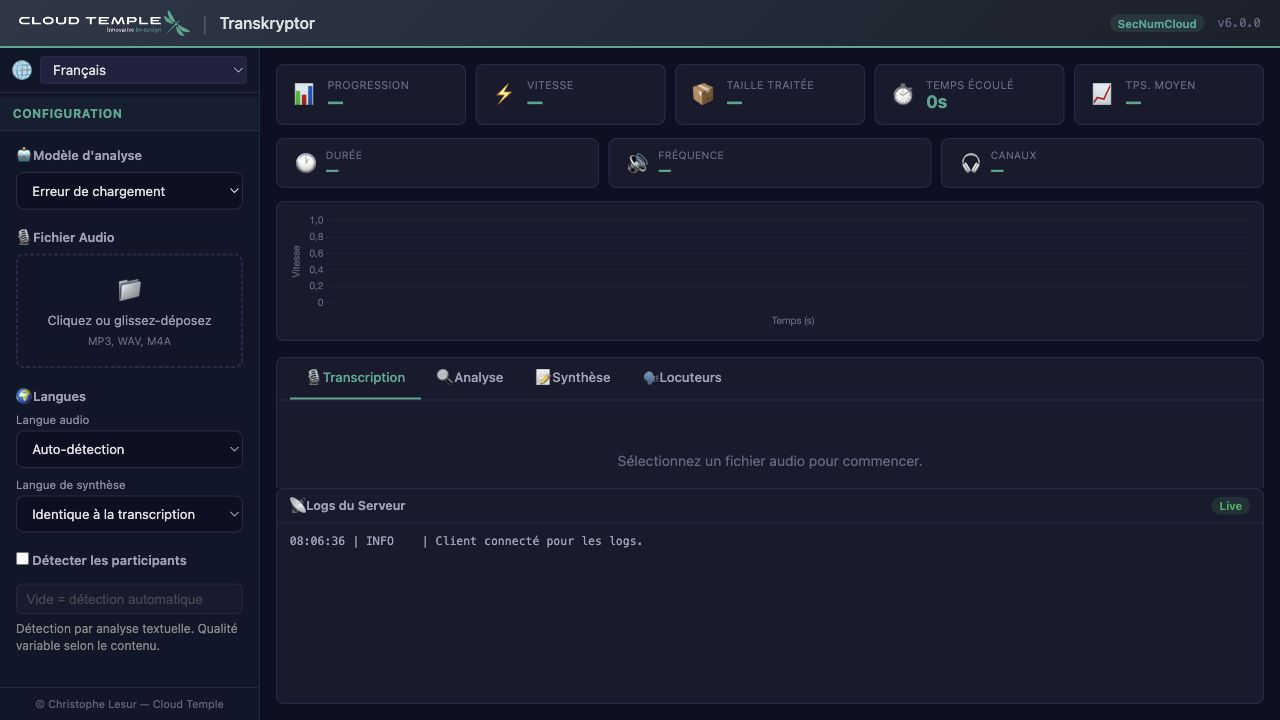
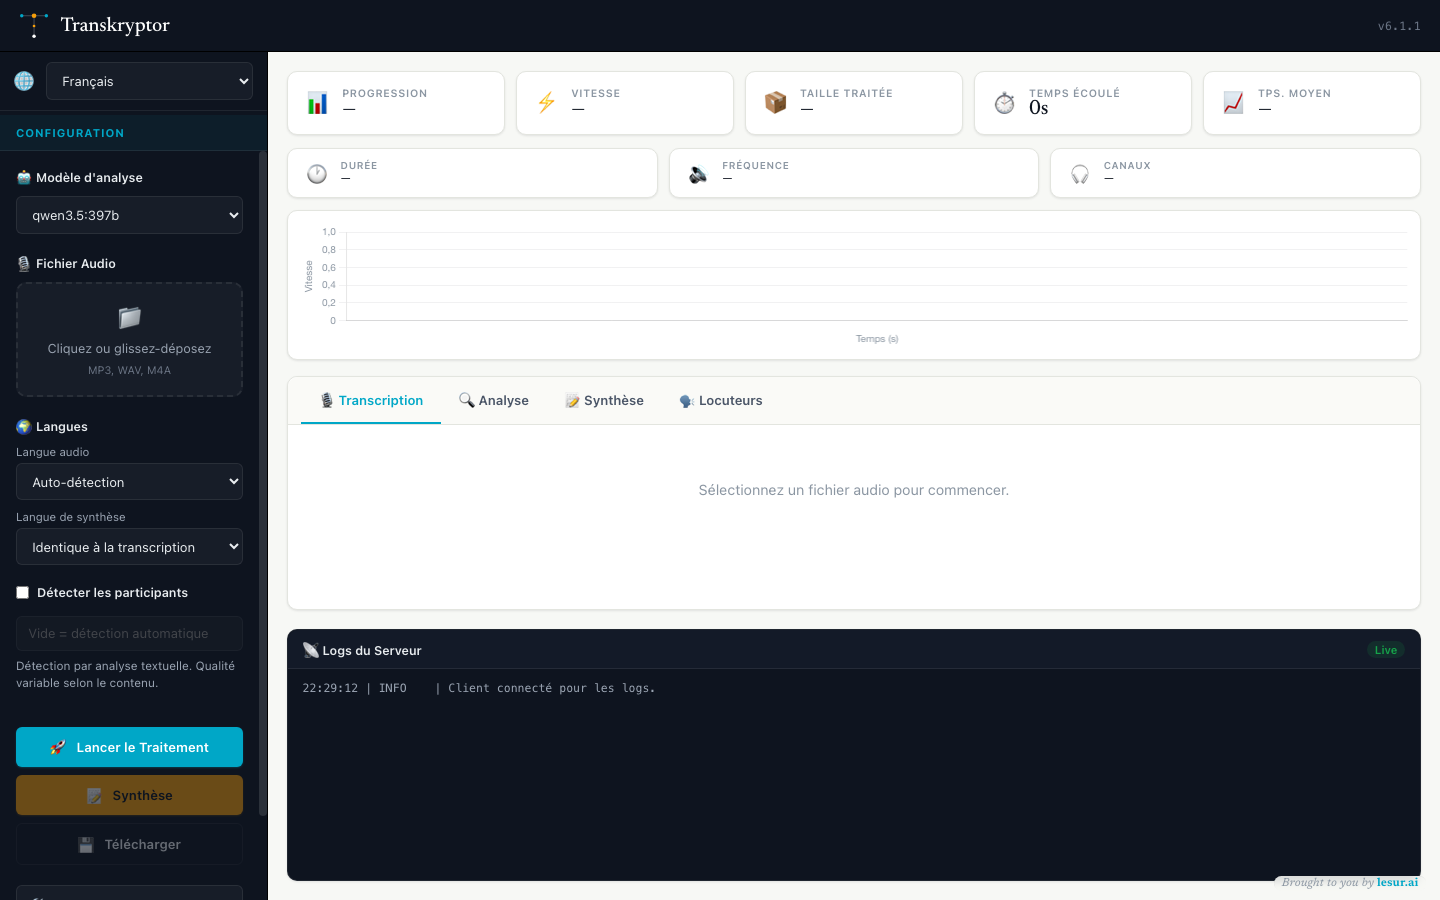
release: prepare v6.1.1 installer hotfix

diff --git a/src/client/index.html b/src/client/index.html
@@ -31,7 +31,7 @@
     </div>
     <div class="header-right">
         <span class="brand-cloudtemple badge badge-info">SecNumCloud</span>
-        <span id="header-version" class="header-version">v6.1.0</span>
+        <span id="header-version" class="header-version">v6.1.1</span>
     </div>
 </div>
 

diff --git a/src/client/js/apiService.js b/src/client/js/apiService.js
@@ -19,7 +19,7 @@ export async function getVersion() {
         return data.version;
     } catch (error) {
         console.error('Erreur lors de la récupération de la version.');
-        return '6.1.0';
+        return '6.1.1';
     }
 }
 

diff --git a/src/client/js/state.js b/src/client/js/state.js
@@ -15,7 +15,7 @@ const appState = {
     clientId: null,
 
     // Version de l'application (chargée depuis le serveur)
-    appVersion: '6.1.0',
+    appVersion: '6.1.1',
 
     // Résultats du traitement
     results: {

diff --git a/src/server/server.js b/src/server/server.js
@@ -11,7 +11,7 @@ const Logger = require('./logger');
 const app = express();
 
 // --- Lecture de la version depuis le fichier VERSION ---
-let APP_VERSION = '6.0.0';
+let APP_VERSION = '6.1.1';
 try {
     APP_VERSION = fs.readFileSync(path.join(__dirname, '../../VERSION'), 'utf-8').trim();
 } catch (e) {

diff --git a/docs/releases/v6.1.1.md b/docs/releases/v6.1.1.md
@@ -1,0 +1,55 @@
+# Release Notes — Transkryptor v6.1.1
+
+Date de préparation : 2026-06-25
+Branche cible : `main`
+
+## Résumé
+
+Transkryptor v6.1.1 est un hotfix documentation + installation pour la release
+visuelle v6.1.0. Le pipeline transcription / analyse / synthèse / diarisation
+reste inchangé.
+
+## Changements
+
+- Capture README remplacée par une vraie capture PNG de l'interface lesur.ai
+  v6.1 actuelle.
+- `README.md` et `README_FR.md` complétés avec l'installation en une ligne.
+- URL de clone corrigée vers `https://github.com/Lesur-ai/transkryptor.git`.
+- Ajout de `scripts/install.sh` pour macOS/Linux.
+- Version projet, fallbacks client et fallback serveur alignés sur `6.1.1`.
+
+## Script d'installation
+
+Commande cible :
+
+```bash
+curl -fsSL https://raw.githubusercontent.com/Lesur-ai/transkryptor/v6.1.1/scripts/install.sh | bash
+```
+
+Le script :
+
+- installe sur macOS dans `~/Applications/Transkryptor` ;
+- installe sur Linux dans `${XDG_DATA_HOME:-~/.local/share}/transkryptor` ;
+- copie `.env.example` vers `.env` si le fichier n'existe pas ;
+- lance `npm ci` ;
+- démarre le service sur `http://localhost:3000` ;
+- attend `/api/version` puis ouvre le navigateur par défaut.
+
+Variables utiles : `TRANSKRYPTOR_INSTALL_DIR`, `TRANSKRYPTOR_REF`,
+`TRANSKRYPTOR_PORT`, `TRANSKRYPTOR_OPEN_BROWSER=0`.
+
+## Windows
+
+La recommandation immédiate est d'utiliser WSL avec le même script bash.
+Pour un support natif Windows, la suite propre serait un script PowerShell
+installant dans `%LOCALAPPDATA%\Transkryptor`, lançant `npm ci`, démarrant le
+service Node et ouvrant `http://localhost:3000`.
+
+## Validation recommandée
+
+- `bash -n scripts/install.sh`
+- `node --check src/server/server.js`
+- `node --check src/client/js/apiService.js`
+- `node --check src/client/js/state.js`
+- JSON valide pour `package.json` et `package-lock.json`
+- Smoke test HTTP `GET /api/version` avec serveur local

diff --git a/README.md b/README.md
@@ -11,6 +11,7 @@ A modern web platform for audio transcription, analysis, and synthesis — built
 - [Highlights](#highlights)
 - [Architecture](#architecture)
 - [Quick start](#quick-start)
+- [One-line installer](#one-line-installer)
 - [Configuration](#configuration)
 - [Usage](#usage)
 - [Project layout](#project-layout)
@@ -24,6 +25,7 @@ A modern web platform for audio transcription, analysis, and synthesis — built
 - **Five synthesis presets** out of the box — executive summary, meeting minutes, action items, cleaned verbatim, thematic analysis — plus a fully custom prompt mode.
 - **Speaker diarization** (LLM-based). Identifies turns of speech from the transcript with optional speaker-count hinting, streamed live as it runs.
 - **Multilingual interface**: French and English UI; 15+ supported audio languages with auto-detection and an independent synthesis target language.
+- **lesur.ai visual identity**: current v6.1 refresh with the cream/navy/cyan/amber design system, self-hosted Newsreader typography, and local runtime assets.
 - **Real-time observability**: per-chunk progress grid, performance chart, live server logs over SSE.
 - **Cloud Temple LLMaaS backend**: all calls go through the sovereign SecNumCloud-qualified Cloud Temple API. No third-party LLM providers in the data path.
 - **Secure API gateway**: the API key lives server-side in environment variables and is never exposed to the browser.
@@ -41,7 +43,7 @@ browser ──► Node.js/Express gateway ──► Cloud Temple LLMaaS (Whisper
 **Prerequisites**: [Node.js](https://nodejs.org/) 18 or higher, and a Cloud Temple LLMaaS API key.
 
 ```bash
-git clone https://github.com/chrlesur/transkryptor.git
+git clone https://github.com/Lesur-ai/transkryptor.git
 cd transkryptor
 npm install
 cp .env.example .env
@@ -56,6 +58,34 @@ For development with auto-reload:
 ```bash
 npm run dev
 ```
+
+## One-line installer
+
+macOS and Linux can install, configure, start, and open Transkryptor with:
+
+```bash
+curl -fsSL https://raw.githubusercontent.com/Lesur-ai/transkryptor/v6.1.1/scripts/install.sh | bash
+```
+
+The script installs the app into `~/Applications/Transkryptor` on macOS and `${XDG_DATA_HOME:-~/.local/share}/transkryptor` on Linux. It copies `.env.example` to `.env` when needed, runs `npm ci`, starts the service on <http://localhost:3000>, and opens the default browser.
+
+Useful overrides:
+
+```bash
+curl -fsSL https://raw.githubusercontent.com/Lesur-ai/transkryptor/v6.1.1/scripts/install.sh -o /tmp/transkryptor-install.sh
+TRANSKRYPTOR_INSTALL_DIR="$HOME/Transkryptor" \
+TRANSKRYPTOR_REF="main" \
+TRANSKRYPTOR_OPEN_BROWSER="0" \
+bash /tmp/transkryptor-install.sh
+```
+
+On Windows, use WSL for now:
+
+```powershell
+wsl bash -lc "curl -fsSL https://raw.githubusercontent.com/Lesur-ai/transkryptor/v6.1.1/scripts/install.sh | bash"
+```
+
+A native Windows installer should be a small PowerShell script that installs into `%LOCALAPPDATA%\Transkryptor`, runs `npm ci`, starts the Node service, and opens <http://localhost:3000>.
 
 ### Docker
 
@@ -106,6 +136,8 @@ transkryptor/
 ├── .env.example
 ├── docker-compose.yml
 ├── Dockerfile
+├── scripts/
+│   └── install.sh          # macOS/Linux one-line installer
 ├── package.json
 └── README.md
 ```

diff --git a/README_FR.md b/README_FR.md
@@ -11,6 +11,7 @@ Plateforme web moderne de transcription, d'analyse et de synthèse audio — con
 - [Points forts](#points-forts)
 - [Architecture](#architecture)
 - [Démarrage rapide](#démarrage-rapide)
+- [Installation en une ligne](#installation-en-une-ligne)
 - [Configuration](#configuration)
 - [Utilisation](#utilisation)
 - [Structure du projet](#structure-du-projet)
@@ -24,6 +25,7 @@ Plateforme web moderne de transcription, d'analyse et de synthèse audio — con
 - **Cinq presets de synthèse** prêts à l'emploi — synthèse exécutive, compte-rendu de réunion, actions et décisions, verbatim corrigé, analyse thématique — plus un mode prompt entièrement personnalisé.
 - **Diarization** (détection des locuteurs basée LLM). Identifie les tours de parole à partir du texte transcrit, avec indication facultative du nombre de locuteurs, en streaming temps réel.
 - **Interface multilingue** : UI en français et en anglais ; plus de 15 langues audio supportées avec auto-détection, et une langue de synthèse indépendante.
+- **Identité visuelle lesur.ai** : refonte v6.1 actuelle avec design system cream/navy/cyan/amber, typographie Newsreader auto-hébergée et assets d'exécution locaux.
 - **Observabilité en temps réel** : grille de progression par morceau, graphique de performance, logs serveur en direct via SSE.
 - **Backend Cloud Temple LLMaaS** : tous les appels passent par l'API souveraine Cloud Temple qualifiée SecNumCloud. Aucun fournisseur LLM tiers dans le flux de données.
 - **Passerelle API sécurisée** : la clé API vit côté serveur dans les variables d'environnement et n'est jamais exposée au navigateur.
@@ -41,7 +43,7 @@ navigateur ──► passerelle Node.js/Express ──► Cloud Temple LLMaaS (W
 **Prérequis** : [Node.js](https://nodejs.org/) 18 ou supérieur, et une clé API Cloud Temple LLMaaS.
 
 ```bash
-git clone https://github.com/chrlesur/transkryptor.git
+git clone https://github.com/Lesur-ai/transkryptor.git
 cd transkryptor
 npm install
 cp .env.example .env
@@ -56,6 +58,34 @@ Pour le développement avec rechargement automatique :
 ```bash
 npm run dev
 ```
+
+## Installation en une ligne
+
+macOS et Linux peuvent installer, configurer, lancer et ouvrir Transkryptor avec :
+
+```bash
+curl -fsSL https://raw.githubusercontent.com/Lesur-ai/transkryptor/v6.1.1/scripts/install.sh | bash
+```
+
+Le script installe l'application dans `~/Applications/Transkryptor` sur macOS et `${XDG_DATA_HOME:-~/.local/share}/transkryptor` sur Linux. Il copie `.env.example` vers `.env` si nécessaire, lance `npm ci`, démarre le service sur <http://localhost:3000>, puis ouvre le navigateur par défaut.
+
+Variables utiles :
+
+```bash
+curl -fsSL https://raw.githubusercontent.com/Lesur-ai/transkryptor/v6.1.1/scripts/install.sh -o /tmp/transkryptor-install.sh
+TRANSKRYPTOR_INSTALL_DIR="$HOME/Transkryptor" \
+TRANSKRYPTOR_REF="main" \
+TRANSKRYPTOR_OPEN_BROWSER="0" \
+bash /tmp/transkryptor-install.sh
+```
+
+Sous Windows, l'option simple aujourd'hui est WSL :
+
+```powershell
+wsl bash -lc "curl -fsSL https://raw.githubusercontent.com/Lesur-ai/transkryptor/v6.1.1/scripts/install.sh | bash"
+```
+
+La bonne suite native serait un petit script PowerShell qui installe dans `%LOCALAPPDATA%\Transkryptor`, exécute `npm ci`, démarre le service Node et ouvre <http://localhost:3000>.
 
 ### Docker
 
@@ -106,6 +136,8 @@ transkryptor/
 ├── .env.example
 ├── docker-compose.yml
 ├── Dockerfile
+├── scripts/
+│   └── install.sh          # Installation en une ligne macOS/Linux
 ├── package.json
 └── README.md
 ```

diff --git a/changelog.md b/changelog.md
@@ -11,6 +11,33 @@ Older entries are therefore less detailed than entries maintained from 5.1.0 onw
 
 ## [Unreleased]
 
+## [6.1.1] - 2026-06-25
+
+Transkryptor v6.1.1 is a documentation and installer hotfix for the v6.1
+visual refresh.
+
+### Added
+
+- `scripts/install.sh`, a macOS/Linux one-line installer intended for
+  `curl | bash` usage. It installs Transkryptor into the platform-appropriate
+  user directory, copies `.env.example` to `.env` when needed, runs `npm ci`,
+  starts the service on `localhost:3000`, and opens the default browser.
+- README documentation for the one-line installer, including macOS/Linux
+  install locations, override variables, and the current Windows recommendation
+  via WSL.
+- Release notes document at `docs/releases/v6.1.1.md`.
+
+### Changed
+
+- Bumped application metadata and client/server fallback versions to `6.1.1`.
+- Refreshed README content with the v6.1 design identity and corrected clone
+  URL for the `Lesur-ai/transkryptor` repository.
+
+### Fixed
+
+- Replaced the stale README screenshot with a current v6.1 lesur.ai UI capture
+  stored as a real PNG file.
+
 ## [6.1.0] - 2026-06-25
 
 Transkryptor v6.1.0 ships a full visual refresh of the web interface under the
@@ -314,7 +341,8 @@ LLM-based participant detection.
 
 - Released the v2.0.0 final version.
 
-[Unreleased]: https://github.com/Lesur-ai/transkryptor/compare/v6.1.0...HEAD
+[Unreleased]: https://github.com/Lesur-ai/transkryptor/compare/v6.1.1...HEAD
+[6.1.1]: https://github.com/Lesur-ai/transkryptor/compare/v6.1.0...v6.1.1
 [6.1.0]: https://github.com/Lesur-ai/transkryptor/compare/v6.0.0...v6.1.0
 [6.0.0]: https://github.com/Lesur-ai/transkryptor/compare/v5.1.0...v6.0.0
 [5.1.0]: https://github.com/Lesur-ai/transkryptor/compare/v5.0.0...v5.1.0